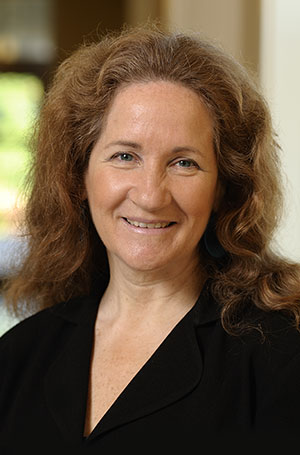
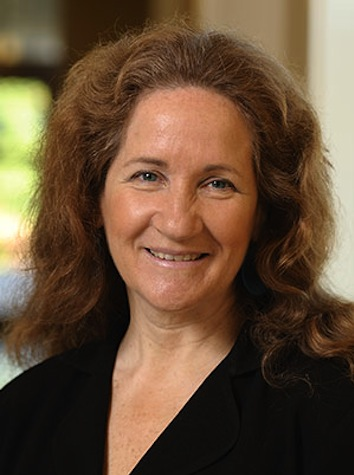
Deans Newsletter

diff --git a/assets/stylesheets/flagship.css b/assets/stylesheets/flagship.css
@@ -25,6 +25,10 @@ strong, b,
 	font-weight: normal;
 }
 
+.uppercase {
+	text-transform: uppercase;
+}
+
 .iconfont {
 	font-family: 'flagship-icon';
 }
@@ -53,6 +57,9 @@ time {
 
 }
 
+aside p {
+	font-style: normal;
+}
 /******* Reusable Classes ************/
 .wrapper {
 	background: rgba(255,255,255, 0.95);
@@ -174,6 +181,20 @@ button a,
 button a:hover,
 button a:visited {
 	color: #fff;
+}
+
+.gallery {
+	background: #3478b6;
+	margin-bottom: 30px;
+}
+
+.gallery ul {
+	padding: 15px 0;
+}
+li.gallery-item {
+	float:left; 
+	margin-right:-36px; 
+	margin-bottom:17px;
 }
 
 .radius10 {
@@ -735,8 +756,25 @@ footer a,
 	padding:15px 15px;
 }
 
+
+
 #sidebar_header h5 {
 	font-size: 22px;
+	color: #FFF;
+}
+
+#sidebar_header.rust_bg {
+	padding: 5px 15px;
+	margin-bottom: 20px;
+}
+
+#sidebar_header.rust_bg h5 {
+	margin:0;
+	font-size: 20px;
+}
+
+aside .photo-page-right {
+	margin-top: 0;
 }
 
 body.home,
@@ -1679,7 +1717,6 @@ body.research ul.nav li {
 	clear: both;
 	margin-right: -45px;
 	margin-left:0px;
-	background-color: #97b4c9;
 }
 
 #newsletter p {
@@ -1707,6 +1744,24 @@ body.research ul.nav li {
 	margin:0;
 	padding:0;
 }
+
+#menu-dean-links {
+	margin-bottom: 20px;
+}
+#menu-dean-links li {
+	border-top: none;
+	font-size: 12px;
+	padding: 0px 0 4px 20px;
+}
+
+#menu-dean-links li a {
+	color: #000;
+}
+
+#menu-dean-links:last-child {
+	border-bottom:none;
+}
+
 /******* Icons ******/
 
 /* Use the following CSS code if you want to use data attributes for inserting your icons */

diff --git a/single-people.php b/single-people.php
@@ -1,51 +1,1 @@
-<?php get_header(); ?>
-
-<div class="row wrapper radius10">
-	<div class="twelve columns">
-			<dl class="tabs mobile">
-				<?php if ( get_post_meta($post->ID, 'ecpt_bio', true) ) : ?><dd class="active"><a href="#bio">Biography</a></dd><?php endif; ?>
-				
-				<?php if ( get_post_meta($post->ID, 'ecpt_research', true) ) : ?><dd><a href="#research">Research</a></dd><?php endif; ?>
-				
-				<?php if ( get_post_meta($post->ID, 'ecpt_teaching', true) ) : ?><dd><a href="#teaching">Teaching</a></dd><?php endif; ?>
-				
-				<?php if ( get_post_meta($post->ID, 'ecpt_publications', true) ) : ?><dd><a href="#publications">Publications</a></dd><?php endif; ?>
-				
-				<?php if ( get_post_meta($post->ID, 'ecpt_extra_tab_title', true) ) : ?><dd><a href="#extra"><?php echo get_post_meta($post->ID, 'ecpt_extra_tab_title', true); ?></a></dd><?php endif; ?>
-				
-				<?php if ( get_post_meta($post->ID, 'ecpt_extra_tab_title2', true) ) : ?><dd><a href="#extra2"><?php echo get_post_meta($post->ID, 'ecpt_extra_tab_title2', true); ?></a></dd><?php endif; ?>			  
-			</dl>
-			
-			<ul class="tabs-content">
-				<?php if ( get_post_meta($post->ID, 'ecpt_bio', true) ) : ?>
-				<li class="active" id="bioTab">
-					<div class="four columns">
-						<?php if ( get_post_meta($post->ID, 'ecpt_people_photo', true) ) : ?><img src="<?php echo get_post_meta($post->ID, 'ecpt_people_photo', true); ?>" /><?php endif; ?>
-						<h4><?php the_title() ?></h4>
-						<h6><?php echo get_post_meta($post->ID, 'ecpt_position', true); ?></h6>
-				
-						<p class="listing"><?php if ( get_post_meta($post->ID, 'ecpt_office', true) ) : ?><b>Office:</b> <?php echo get_post_meta($post->ID, 'ecpt_office', true); ?><br><?php endif; ?>
-						<?php if ( get_post_meta($post->ID, 'ecpt_hours', true) ) : ?><b>Office Hours:</b> <?php echo get_post_meta($post->ID, 'ecpt_hours', true); ?><br><?php endif; ?>
-						<?php if ( get_post_meta($post->ID, 'ecpt_phone', true) ) : ?><b>Phone:</b> <?php echo get_post_meta($post->ID, 'ecpt_phone', true); ?><br><?php endif; ?>
-						<?php if ( get_post_meta($post->ID, 'ecpt_fax', true) ) : ?><b>Fax:</b> <?php echo get_post_meta($post->ID, 'ecpt_fax', true); ?><br><?php endif; ?>
-						<?php if ( get_post_meta($post->ID, 'ecpt_email', true) ) : ?><b>Email:</b> <a href="mailto:<?php echo get_post_meta($post->ID, 'ecpt_email', true); ?>"><?php echo get_post_meta($post->ID, 'ecpt_email', true); ?></a><br><?php endif; ?>
-						<?php if ( get_post_meta($post->ID, 'ecpt_cv', true) ) : ?><b><a href="<?php echo get_post_meta($post->ID, 'ecpt_cv', true); ?>">Curriculum Vitae</a></b> (PDF)<br><?php endif; ?>
-						<?php if ( get_post_meta($post->ID, 'ecpt_website', true) ) : ?><a href="<?php echo get_post_meta($post->ID, 'ecpt_website', true); ?>" target="_blank">View personal website</a><?php endif; ?></p>
-					</div>
-					<?php echo get_post_meta($post->ID, 'ecpt_bio', true); ?>
-				</li><?php endif; ?>
-				
-				<?php if ( get_post_meta($post->ID, 'ecpt_research', true) ) : ?><li id="researchTab"><?php echo get_post_meta($post->ID, 'ecpt_research', true); ?></li><?php endif; ?>
-				
-				<?php if ( get_post_meta($post->ID, 'ecpt_teaching', true) ) : ?><li id="teachingTab"><?php echo get_post_meta($post->ID, 'ecpt_teaching', true); ?></li><?php endif; ?>
-				
-				<?php if ( get_post_meta($post->ID, 'ecpt_publications', true) ) : ?><li id="publicationsTab"><?php echo get_post_meta($post->ID, 'ecpt_publications', true); ?></li><?php endif; ?>
-				
-				<?php if ( get_post_meta($post->ID, 'ecpt_extra_tab', true) ) : ?><li id="extraTab"><?php echo get_post_meta($post->ID, 'ecpt_extra_tab', true); ?></li><?php endif; ?>
-				
-				<?php if ( get_post_meta($post->ID, 'ecpt_extra_tab2', true) ) : ?><li id="extra2Tab"><?php echo get_post_meta($post->ID, 'ecpt_extra_tab2', true); ?></li><?php endif; ?>			
-			</ul>
-			</div>		
-		</div>
-
-<?php get_footer(); ?>
+<?php locate_template('template-deans-newsletter.php', true, false); ?>

diff --git a/header.php b/header.php
@@ -3,12 +3,12 @@
 <!--[if lt IE 7]> <html class="no-js lt-ie9 lt-ie8 lt-ie7" lang="en"> <![endif]-->
 <!--[if IE 7]>    <html class="no-js lt-ie9 lt-ie8" lang="en"> <![endif]-->
 <!--[if IE 8]>    <html class="no-js lt-ie9" lang="en"> <![endif]-->
-<!--[if gt IE 8]><!--> <html class="no-js" lang="en"> <!--<![endif]-->
+<html class="no-js" lang="en"> 
 
 <head>
   <meta charset="utf-8" />
   <meta name="viewport" content="width=device-width" />
-  <title></title>
+  <title><?php create_page_title(); ?></title>
   
   <!-- CSS Files: All pages -->
   <link rel="stylesheet" href="<?php echo get_template_directory_uri() ?>/assets/stylesheets/foundation.css">
@@ -21,9 +21,10 @@
   <?php wp_enqueue_script('jquery'); ?> 
   <?php wp_head(); ?>
 
-  <!-- IE Fix for HTML5 Tags -->
+  <!-- Make IE a modern browser -->
   <!--[if lt IE 9]>
     <script src="http://html5shiv.googlecode.com/svn/trunk/html5.js"></script>
+    <script src="http://ie7-js.googlecode.com/svn/version/2.1(beta4)/IE9.js"></script>
   <![endif]-->
   <?php include_once("parts-analytics.php") ?> 
 </head>
@@ -57,7 +58,7 @@ if( is_page() ) {
 				<div class="row">
 					<div class="six columns">
 					
-					<form method="GET" action="<?php echo site_url('/search'); ?>">
+					<form method="GET" action="<?php echo site_url('/search'); ?>" role="search">
 						<input type="submit" class="icon-search" value="&#xe004;" />
 						<input type="text" name="q" placeholder="Search this site" />
 					</form>
@@ -92,4 +93,4 @@ if( is_page() ) {
 				'walker' => new mobile_select_menu(),
 				'items_wrap' => '<select onchange="window.open(this.options[this.selectedIndex].value,\'_top\')">%3$s</select>', )); ?> 
 		</div>	
-		</header>
+	</header>

diff --git a/parts-deans-sidebar.php b/parts-deans-sidebar.php
@@ -1,0 +1,43 @@
+<aside class="four columns toplayer" id="sidebar" role="complementary"> <!-- Begin Sidebar -->
+		<div class="photo-page-right">
+			<img src="<?php echo get_template_directory_uri() ?>/assets/images/dean.jpg" class="radius-topright offset-gutter" />
+		</div>
+		<div class="rust_bg offset-gutter" id="sidebar_header">
+			<h5>Dean Katherine S. Newman</h5>
+		</div>
+		<div class="row">
+			<?php wp_nav_menu( array( 
+				'menu' => 'Dean Links',
+				'container' => false,
+				'menu_class' => 'nav',
+				'link_before' => '<span class="icon-arrow-right-2"></span>', 
+				'depth' => 1 )); ?> 
+		</div>
+		<div class="rust_bg offset-gutter" id="sidebar_header">
+			<h5>Past Newsletters</h5>
+		</div>
+		
+
+			<?php $dean_letter_archive_query = new WP_Query(array(
+						'post_type' => 'post',
+						'category_name' => 'newsletter',
+						'posts_per_page' => '4',
+						'offset' => 1
+						
+						));
+			if ( $dean_letter_archive_query->have_posts() ) : while ( $dean_letter_archive_query->have_posts() ) : $dean_letter_archive_query->the_post(); ?>
+			<div class="row">
+			<div class="twelve columns">
+			<a href="<?php the_permalink(); ?>" title="<?php the_title(); ?>">
+				<time class="no-margin"><?php echo get_post_meta($post->ID, 'date_newsletter', true); ?></time>
+				<h5 class="no-margin"><?php the_title(); ?></h5>
+				<?php the_excerpt(); ?>
+				
+			</a>
+			</div>
+			</div>
+			<?php endwhile; ?>
+			<p class="floatright"><a href="<?php echo site_url('/blog/category/newsletter'); ?>"><b>View full archive &nbsp;</b><span class="icon-arrow-right-2"></span></a></p>
+			<?php endif; ?>
+		
+	</aside> <!-- End Sidebar -->

diff --git a/category.php b/category.php
@@ -1,0 +1,25 @@
+<?php get_header(); ?>
+<section class="row wrapper radius10">
+	<div class="twelve columns">
+		<div class="row">
+			<div class="twelve columns" id="archive">
+			<h2><?php single_cat_title(); ?> Archive</h2>
+			<?php while (have_posts()) : the_post(); ?>
+					<article class="three columns mobile-four">
+						<a href="<?php the_permalink(); ?>">
+							<?php the_post_thumbnail('rss'); ?>								
+							<time><?php if(get_post_meta($post->ID, 'date_newsletter', true)) { echo get_post_meta($post->ID, 'date_newsletter', true); } else { echo get_the_date(); } ?></time>
+							<h5><?php the_title(); ?></h5>
+							<summary><?php the_excerpt(); ?></summary>
+						</a>
+					</article>			
+			<?php endwhile; ?>
+			</div>
+		</div>
+		<div class="row">
+			<?php flagship_pagination(max_num_pages); ?>		
+		</div>
+	</div>
+</section>
+
+<?php get_footer(); ?>

diff --git a/page-about.php b/page-about.php
@@ -35,14 +35,14 @@
 						
 						));
 			if ( $dean_letter_query->have_posts() ) : while ( $dean_letter_query->have_posts() ) : $dean_letter_query->the_post(); ?>
-			<div class="bright_blue_bg row no-gutter" id="newsletter" role="complementary">
+			<div class="blue_bg row no-gutter" id="newsletter" role="complementary">
 				<div class="eight columns">
 					<h6 class="white">Dean's Newsletter <span class="floatright"><?php echo get_post_meta($post->ID, 'date_newsletter', true); ?></span></h6>
 					<h5 class="white"><?php the_title(); ?></h5>
 					<span class="white"><?php the_excerpt(); ?></span>
 				</div>
 				<div class="four columns no-gutter">
-					<?php the_post_thumbnail('small') ?>
+					<?php the_post_thumbnail('medium') ?>
 				</div>
 			</div> <!-- End Newsletter -->
 			<?php endwhile; endif; ?>

diff --git a/template-deans-newsletter.php b/template-deans-newsletter.php
@@ -1,6 +1,17 @@
+<?php
+/*
+Template Name: Dean's Newsletter
+*/
+?>
 <?php get_header(); ?>
 <div class="row sidebar_bg radius10">
-<?php if ( have_posts() ) : while ( have_posts() ) : the_post(); ?>
+<?php $dean_letter_query = new WP_Query(array(
+						'post_type' => 'post',
+						'category_name' => 'newsletter',
+						'posts_per_page' => '1',						
+						));
+?>
+<?php if ( $dean_letter_query->have_posts() ) : while ( $dean_letter_query->have_posts() ) : $dean_letter_query->the_post(); ?>
 	<div class="eight columns wrapper radius-left offset-topgutter">
 		<section role="main">
 				<h5 class="uppercase no-margin">Dean's Newsletter <time class="floatright"><?php echo get_post_meta($post->ID, 'date_newsletter', true); ?></time></h4>
